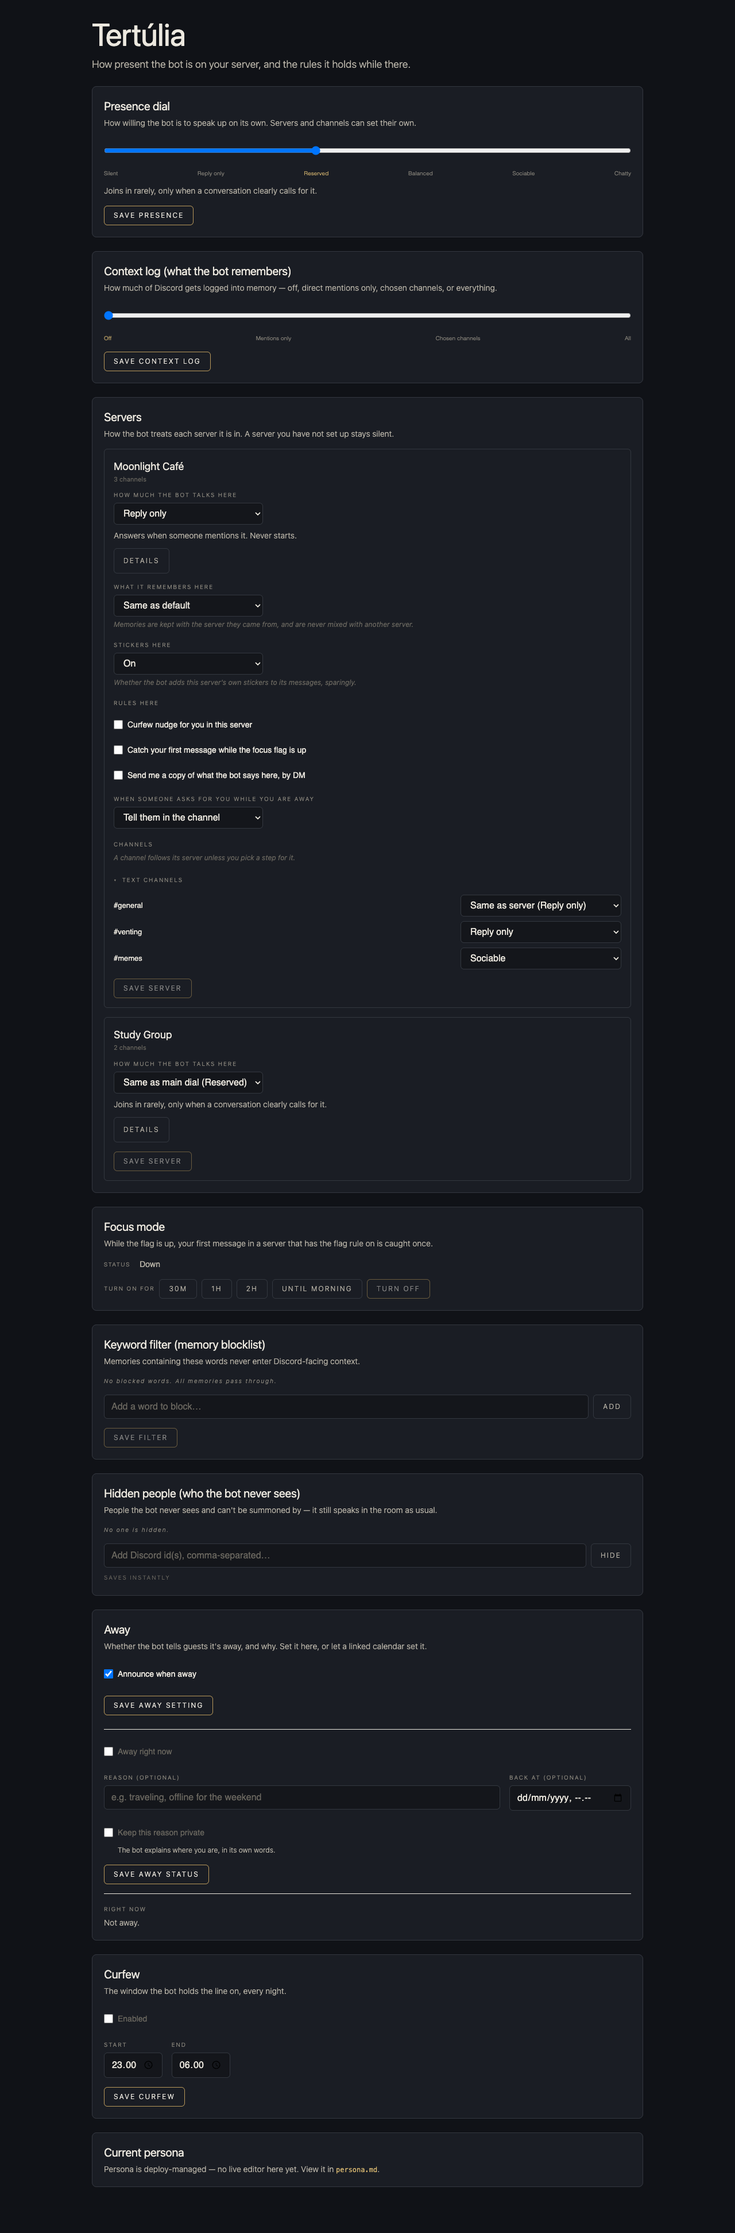
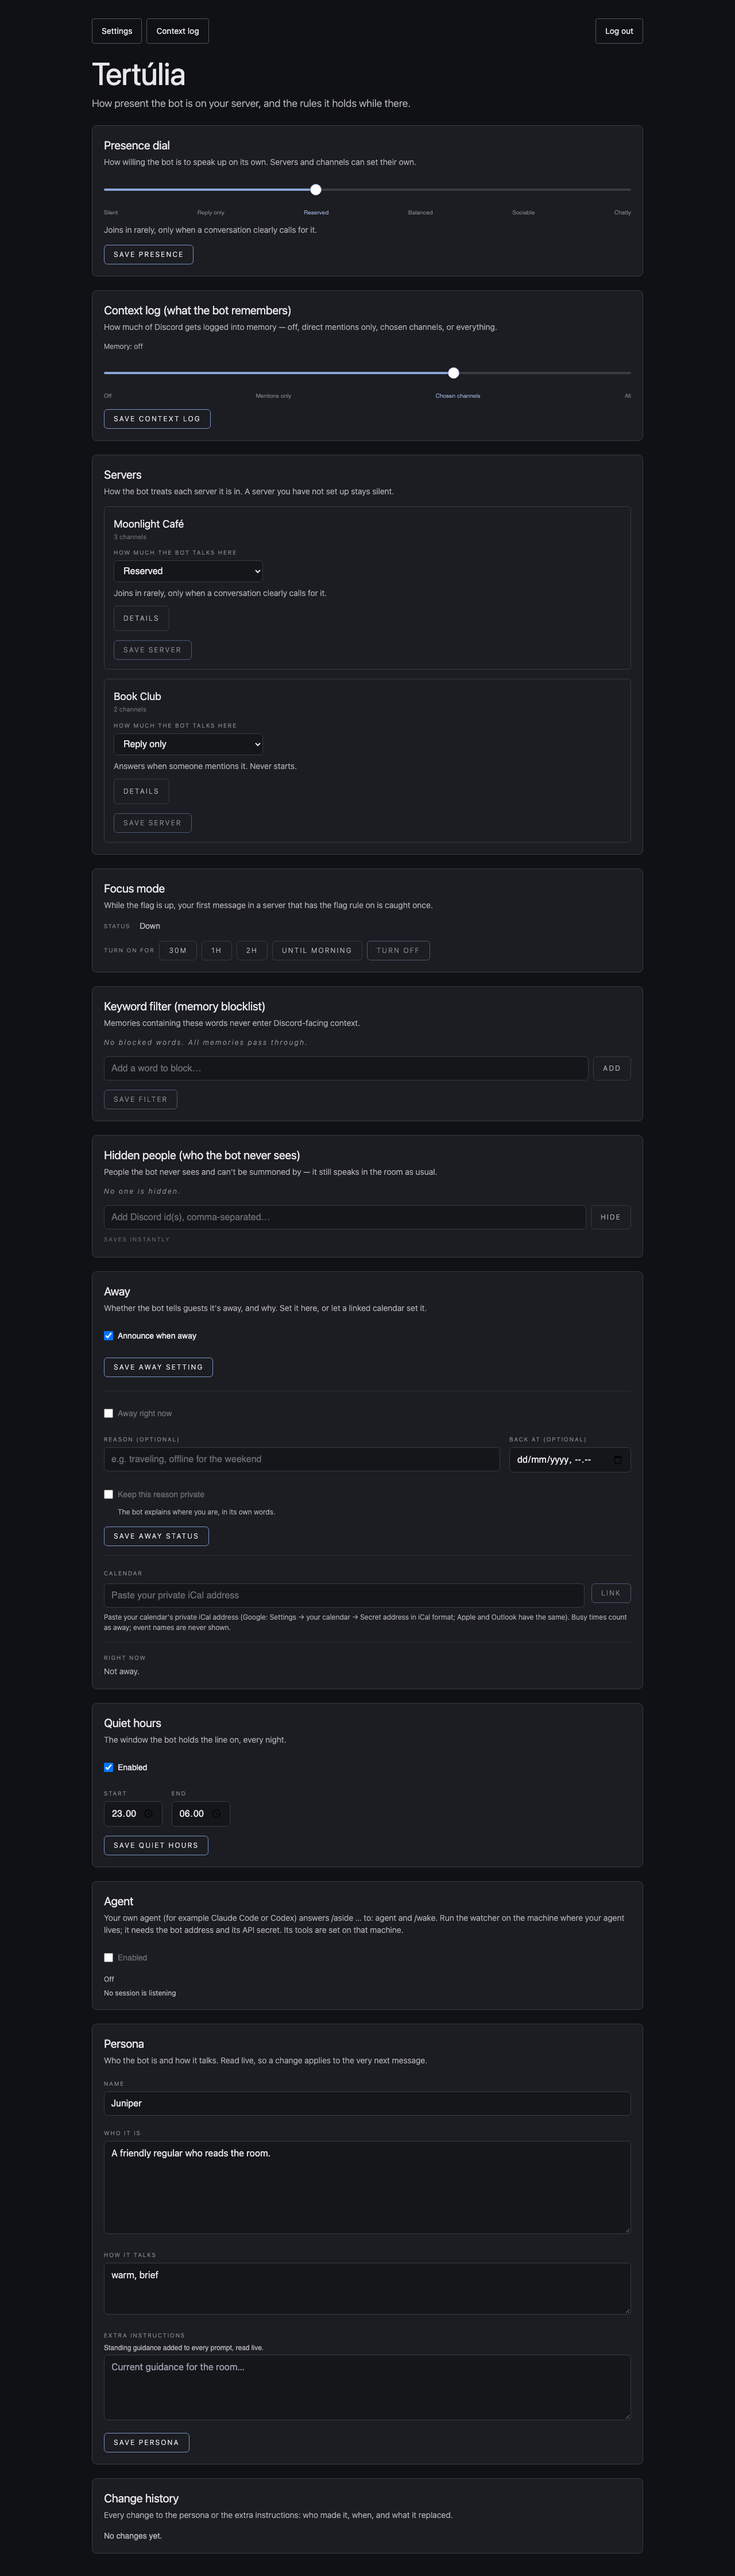
README shows the settings page; fresh settings screenshots; a demo of the settings page with invented data; the Quiet hours heading spelled right

diff --git a/dashboard/pages/DiscordSettings.jsx b/dashboard/pages/DiscordSettings.jsx
@@ -1385,7 +1385,7 @@ function QuietHoursSection({ quiet_hours, loading, loadError, onRetry, onUpdated
 
   return (
     <section className={cardClasses}>
-      <h3 className="text-xl font-[Cormorant_Garamond,serif] font-normal text-[color:var(--page)] tracking-[-0.01em]">QuietHours</h3>
+      <h3 className="text-xl font-[Cormorant_Garamond,serif] font-normal text-[color:var(--page)] tracking-[-0.01em]">Quiet hours</h3>
       <p className="text-sm font-light text-[color:var(--page-dim)] font-[Cormorant_Garamond,serif] leading-[1.5] mt-1 mb-4">
         {labels.quiet_hours_description}
       </p>

diff --git a/README.md b/README.md
@@ -14,6 +14,10 @@ Tertúlia gives your AI a seat in your Discord server (it reads the room, joins 
 
 <p align="center"><img src="docs/how-it-works.svg" width="900" alt="A message's path through Tertúlia, left to right in seven boxes. A message arrives in a channel of a server the bot is in. The door: ignored and hidden people never pass, while your own tools still read everything. The window: the recent lines, each with its time, and a line where the day changes. Who's here: one short note per speaker, from your hooks file if you have one. The judge reads the presence level for this server and channel, from Silent to Chatty, plus quiet hours and away status. Then it speaks or stays quiet. Last, its reply is recorded through your context sink, if you set one."></p>
 
+<p align="center"><img src="docs/settings-preview.png" width="720" alt="The Tertúlia settings page in a dark theme, filled with invented demo data. At the top, the presence dial (a slider from Silent through Reply only, Reserved, Balanced and Sociable to Chatty) is set to Reserved, with the note that the bot joins in rarely, only when a conversation clearly calls for it. Below it, the context log slider, then a Servers section with a card for each server, each with its own talking level."></p>
+
+The settings page, shown with demo data. Every control, on desktop and phone: [docs/install.md](docs/install.md).
+
 ## Quick start
 
 **Let your AI do it.** Copy this and send it to Claude Code:

diff --git a/dashboard/example-host/README.md b/dashboard/example-host/README.md
@@ -12,3 +12,5 @@ Then open http://127.0.0.1:8787/ and log in with the bot's `DASHBOARD_PASSWORD`.
 How it connects: `serve.mjs` serves the page and forwards only `/settings` requests to `BOT_URL`, so the browser talks to one address and the bot needs no CORS change. It listens on this computer only. The password is typed on the login page and is not stored in the build; the bot's own login cookie is the session.
 
 Files: `main.jsx` (login and tabs, uses `manifest.setup()` and `adapters/bot-settings-api.js`), `build.mjs` (bundles with esbuild), `serve.mjs` (static files and the `/settings` forward).
+
+Try it without a bot: `make example-demo` (or `node dashboard/example-host/demo.mjs`) opens the same page against a make-believe bot with invented data kept in memory (any password works). The screenshots in `docs/` come from it.
